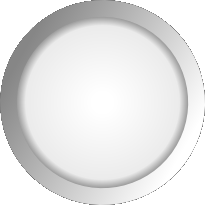
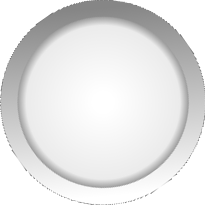
update image

diff --git a/qml/luxmeter/MainPage.qml b/qml/luxmeter/MainPage.qml
@@ -257,8 +257,7 @@ Page {
 
     Image {
         id: screen
-        width: 431
-        height: 203
+        anchors.fill: parent
         smooth: true
         z: -1
         source: "screen.png"
@@ -362,7 +361,6 @@ Page {
         width: 205
         height: 205
         smooth: true
-        rotation: 50
         anchors.top: parent.top
         anchors.topMargin: 20
         anchors.right: parent.right
